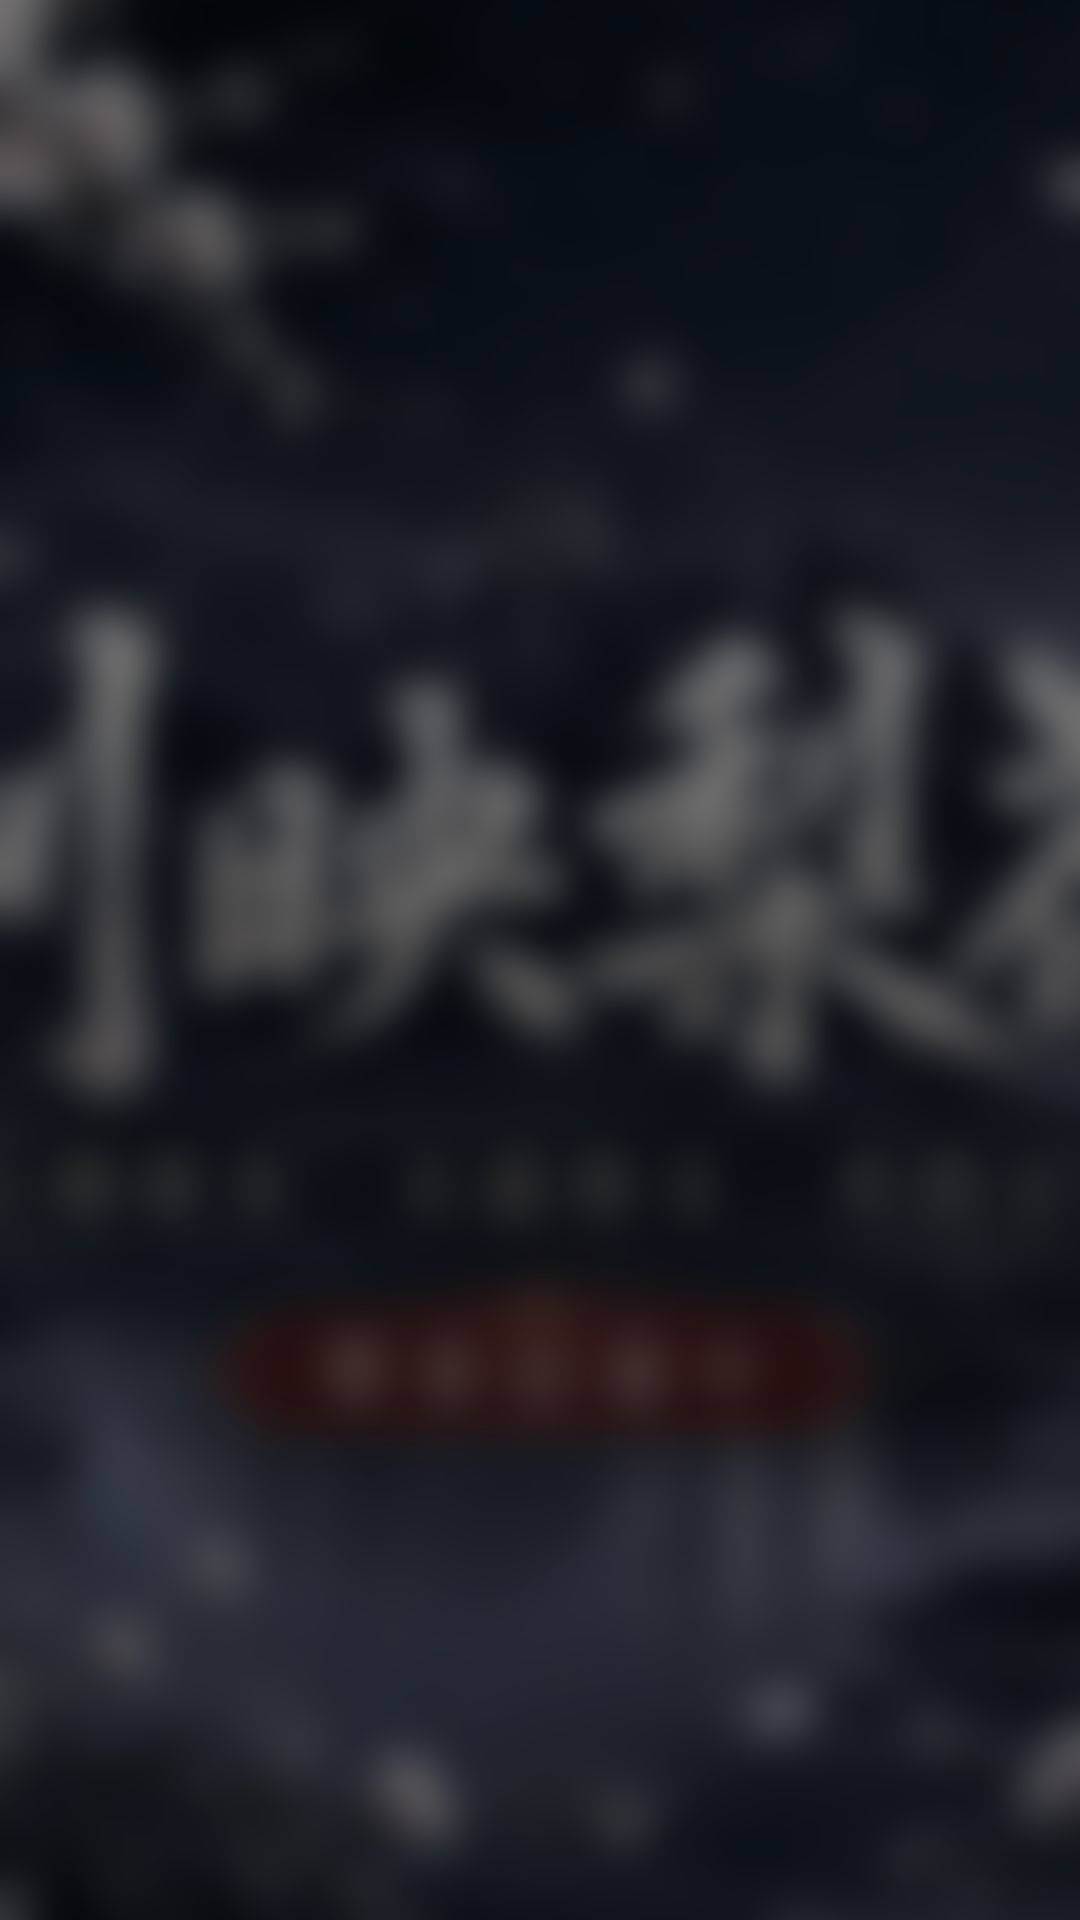
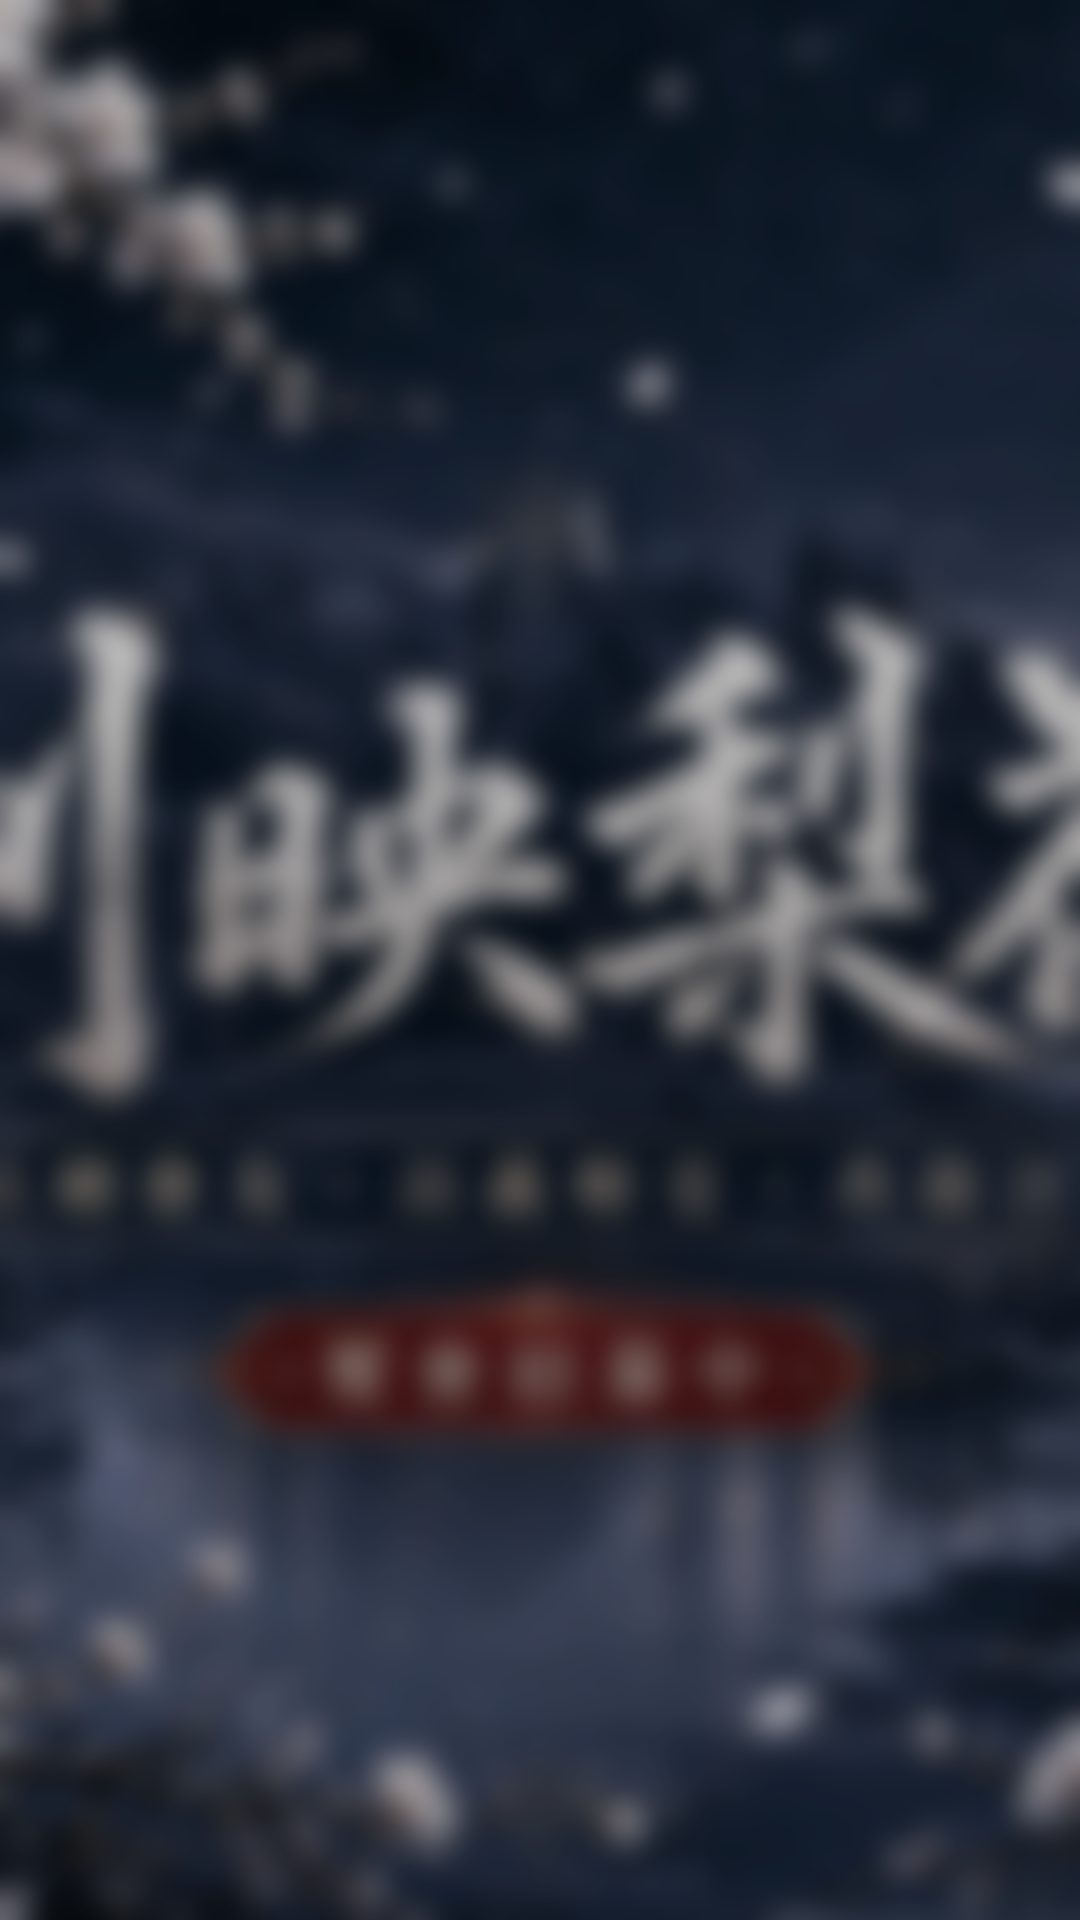
背景提亮與遮罩放柔，讓梨花夜景可見（v1.2.1）

diff --git a/index.html b/index.html
@@ -44,8 +44,8 @@ body{
 .bgscrim{
   position:fixed;inset:0;z-index:0;pointer-events:none;
   background:
-    radial-gradient(120% 85% at 50% 8%, rgba(10,36,33,.30) 0%, rgba(10,36,33,.62) 58%, rgba(8,30,28,.86) 100%),
-    linear-gradient(180deg, rgba(10,36,33,.55), rgba(10,36,33,.30) 38%, rgba(8,30,28,.78));
+    radial-gradient(120% 85% at 50% 8%, rgba(10,36,33,.20) 0%, rgba(10,36,33,.46) 55%, rgba(8,30,28,.74) 100%),
+    linear-gradient(180deg, rgba(10,36,33,.42), rgba(10,36,33,.14) 36%, rgba(8,30,28,.55));
 }
 body::before{
   content:''; position:fixed; inset:0; pointer-events:none; z-index:1;
@@ -388,7 +388,7 @@ button{cursor:pointer}
 <button class="verchip" id="verChip">v1.1.0</button>
 
 <script>
-window.APP_VERSION = '1.2.0';
+window.APP_VERSION = '1.2.1';
 
 const KEY = 'bingoCard.v2';
 const HIST = 'bingoHist.v1';

diff --git a/sw.js b/sw.js
@@ -1,4 +1,4 @@
-const VERSION = '1.2.0';
+const VERSION = '1.2.1';
 const CACHE = 'bingo-v' + VERSION;
 const ASSETS = ['./','./index.html','./manifest.webmanifest','./icon-192.png','./icon-512.png','./apple-touch-icon.png','./bg.jpg','./banner.jpg'];
 self.addEventListener('install', e => {
